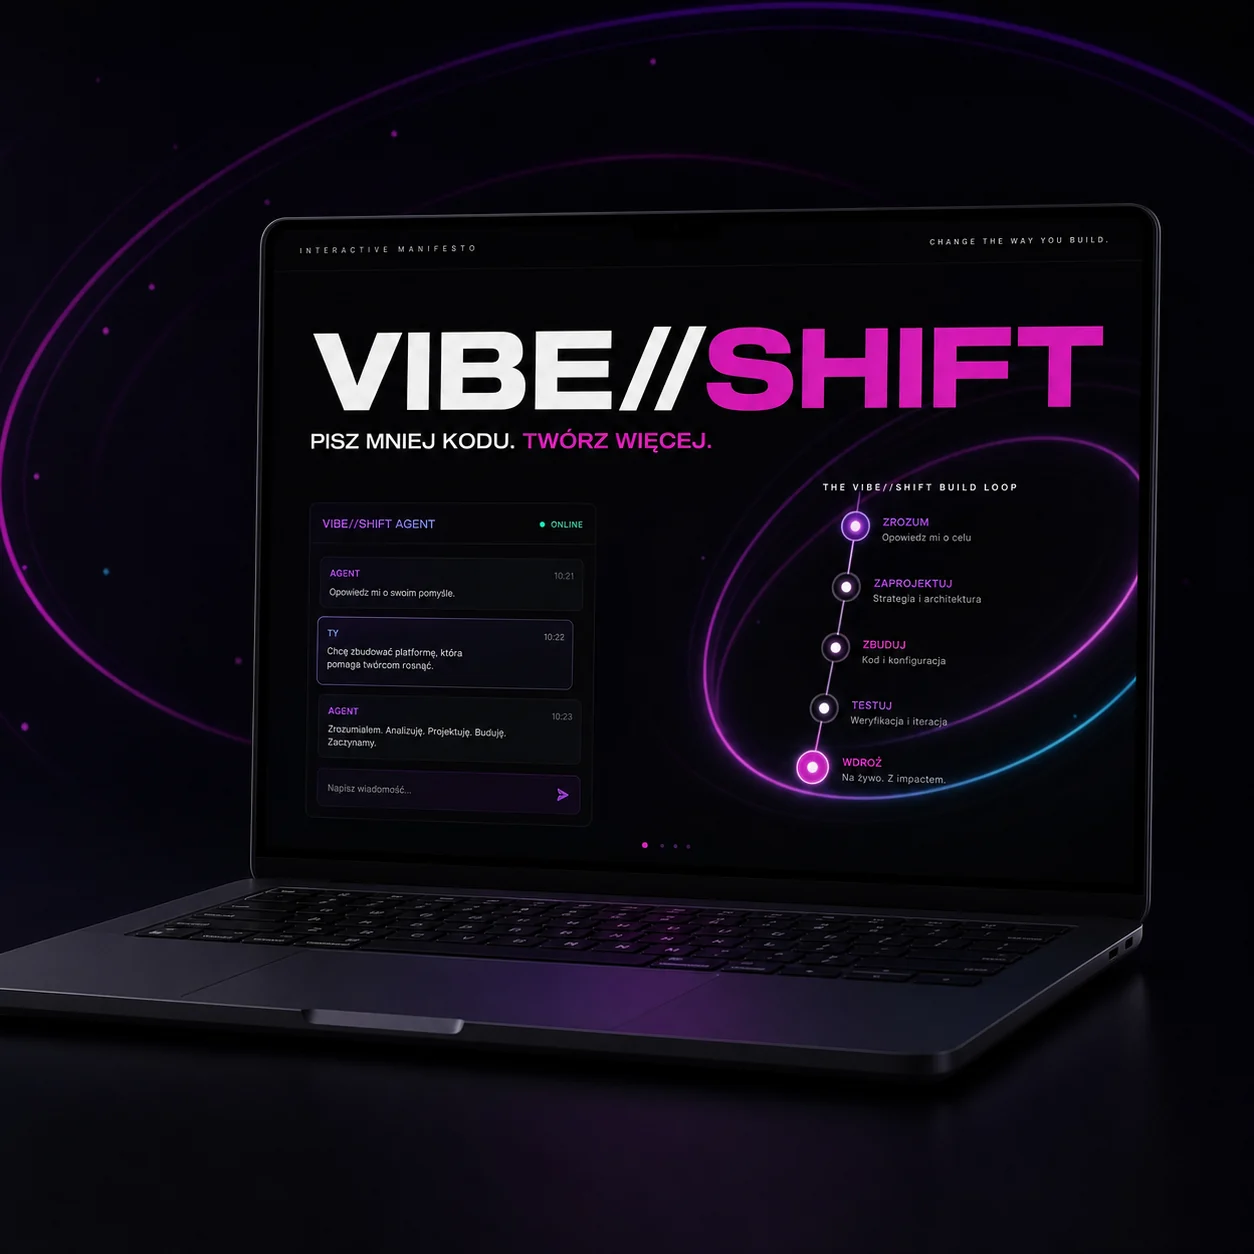
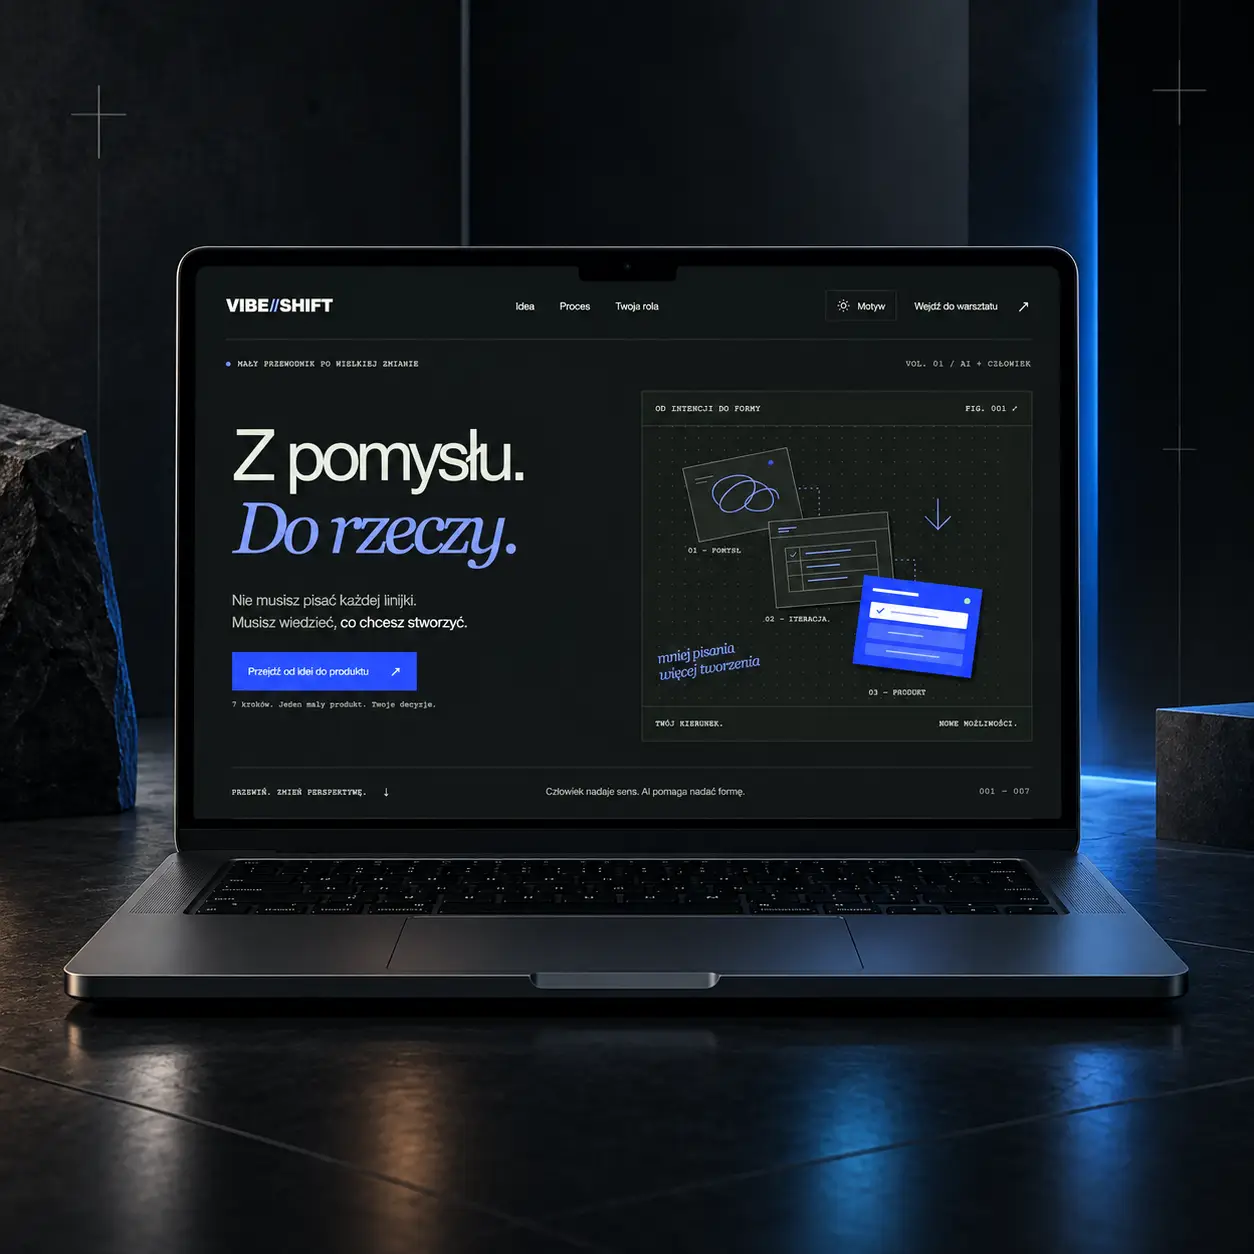
feat(projects): add Aeris and Atelier

diff --git a/src/data/projects.ts b/src/data/projects.ts
@@ -170,6 +170,32 @@ export const projects: Project[] = [
     accent: '#7cff45',
   },
   {
+    id: 'aeris',
+    title: 'AERIS — Ponad chmurami',
+    description: {
+      pl: 'Przeglądarkowa gra zręcznościowa o podniebnym kurierze, łącząca automatyczne odbicia, proceduralną trasę i pięć zmieniających się krain.',
+      en: 'A browser arcade game about a sky courier, combining automatic bounces, a procedural route and five evolving realms.',
+    },
+    image: '/aeris_mockup.webp',
+    link: 'https://apkmason.dev/aeris/',
+    tags: ['Canvas 2D', 'Procedural', 'Arcade'],
+    category: 'app',
+    accent: '#8cccf0',
+  },
+  {
+    id: 'atelier',
+    title: 'Atelier — mieszkanie z ogrodem',
+    description: {
+      pl: 'Interaktywna scena architektoniczna w Three.js: dziewięć kadrów, swobodny spacer po mieszkaniu i ogrodzie oraz światło przechodzące od dnia do zmierzchu.',
+      en: 'An interactive Three.js architectural scene with nine directed views, free exploration of the apartment and garden, and light shifting from day to dusk.',
+    },
+    image: '/atelier_mockup.webp',
+    link: 'https://apkmason.dev/atelier/',
+    tags: ['Three.js', 'Interactive 3D', 'Free walk'],
+    category: 'spatial',
+    accent: '#d4b07c',
+  },
+  {
     id: 'beyond-the-door',
     title: 'Beyond the Door',
     description: {
@@ -407,14 +433,14 @@ export const projects: Project[] = [
     id: 'vibe-shift',
     title: 'VIBE//SHIFT',
     description: {
-      pl: 'Interaktywny manifest vibe codingu zbudowany na kinetycznej typografii i płynnym ruchu.',
-      en: 'An interactive vibe-coding manifesto built around kinetic typography and fluid motion.',
+      pl: 'Interaktywny przewodnik po tworzeniu z AI: siedem decyzji prowadzi od nieuporządkowanego pomysłu do przetestowanej miniaplikacji „Dziś”.',
+      en: 'An interactive guide to building with AI: seven decisions lead from an unstructured idea to the tested “Today” mini-app.',
     },
     image: '/vibeshift_mockup.webp',
     link: 'https://apkmason.dev/vibe_shift/',
-    tags: ['Kinetic type', 'Motion', 'Vibe coding'],
+    tags: ['Interactive guide', 'AI workflow', 'Product thinking'],
     category: 'experiment',
-    accent: '#ff3f84',
+    accent: '#7c91ff',
   },
   {
     id: 'space-scale',

diff --git a/index.html b/index.html
@@ -9,7 +9,7 @@
     <title>APKMason.dev — interaktywne doświadczenia, aplikacje, AI</title>
     <meta
       name="description"
-      content="Portfolio Krzysztofa / APKMason.dev — 34 interaktywne strony, aplikacje i cyfrowe doświadczenia tworzone z kodu, motion designu i AI."
+      content="Portfolio Krzysztofa / APKMason.dev — 39 interaktywnych stron, aplikacji i cyfrowych doświadczeń tworzonych z kodu, motion designu i AI."
     />
     <meta name="author" content="Krzysztof — APKMason.dev" />
     <meta name="creator" content="APKMason.dev" />
@@ -52,7 +52,7 @@
     <meta property="og:title" content="APKMason.dev — interaktywne doświadczenia, aplikacje, AI" />
     <meta
       property="og:description"
-      content="Portfolio Krzysztofa / APKMason.dev — 34 interaktywne strony, aplikacje i cyfrowe doświadczenia tworzone z kodu, motion designu i AI."
+      content="Portfolio Krzysztofa / APKMason.dev — 39 interaktywnych stron, aplikacji i cyfrowych doświadczeń tworzonych z kodu, motion designu i AI."
     />
     <meta property="og:url" content="https://apkmason.dev/" />
     <meta property="og:image" content="https://apkmason.dev/og.jpg" />
@@ -65,7 +65,7 @@
     <meta name="twitter:title" content="APKMason.dev — interaktywne doświadczenia, aplikacje, AI" />
     <meta
       name="twitter:description"
-      content="Portfolio Krzysztofa / APKMason.dev — 34 interaktywne strony, aplikacje i cyfrowe doświadczenia tworzone z kodu, motion designu i AI."
+      content="Portfolio Krzysztofa / APKMason.dev — 39 interaktywnych stron, aplikacji i cyfrowych doświadczeń tworzonych z kodu, motion designu i AI."
     />
     <meta name="twitter:image" content="https://apkmason.dev/og.jpg" />
 

diff --git a/CHANGELOG.md b/CHANGELOG.md
@@ -8,9 +8,12 @@ stosują [Semantic Versioning](https://semver.org/).
 
 ### Added
 
+- „AERIS — Ponad chmurami” i „Atelier — mieszkanie z ogrodem” do archiwum,
+  z mockupami przygotowanymi na podstawie rzeczywistych interfejsów; indeks
+  liczy teraz 39 prac,
 - projekt „AI ≠ MODEL” w kategorii Eksperymenty: interaktywna lekcja o
   różnicach między modelem, systemem AI, workflow i agentem, z dedykowanym
-  mockupem opartym na rzeczywistym interfejsie; indeks liczy teraz 37 prac,
+  mockupem opartym na rzeczywistym interfejsie,
 
 - nowy materiał hero (bazaltowy blok ze świecącymi szczelinami) o kompozycji
   zaprojektowanej pod układ: lewa jedna trzecia kadru to niemal czysta czerń
@@ -52,6 +55,8 @@ stosują [Semantic Versioning](https://semver.org/).
 
 ### Changed
 
+- „VIBE//SHIFT” otrzymał aktualny opis, tagi, akcent kolorystyczny i nowy mockup
+  zgodny z przebudowanym przewodnikiem „Z pomysłu. Do rzeczy.”,
 - naprawiono przycisk `X` w wyszukiwarce indeksu: filtry nie nachodzą już na
   jego obszar klikalny, który dodatkowo został powiększony,
 - „Skin Elixir” przejął pozycję „BRIXCORE” w wyróżnionej siódemce, a BRIXCORE

diff --git a/README.md b/README.md
@@ -2,7 +2,7 @@
 
 Portfolio Krzysztofa / APKMason.dev. Strona jest pomyślana jako **katalog pracy**,
 a nie prezentacja o pracy: pierwszy ekran mówi, kim jest autor, a już drugi
-pokazuje projekty. Rdzeniem strony jest indeks wszystkich 37 realizacji — lista
+pokazuje projekty. Rdzeniem strony jest indeks wszystkich 39 realizacji — lista
 z filtrami, wyszukiwarką, obsługą klawiatury i podglądem, która na dotyku zamienia
 się w listę rozwijaną projektowaną pod kciuk.
 
